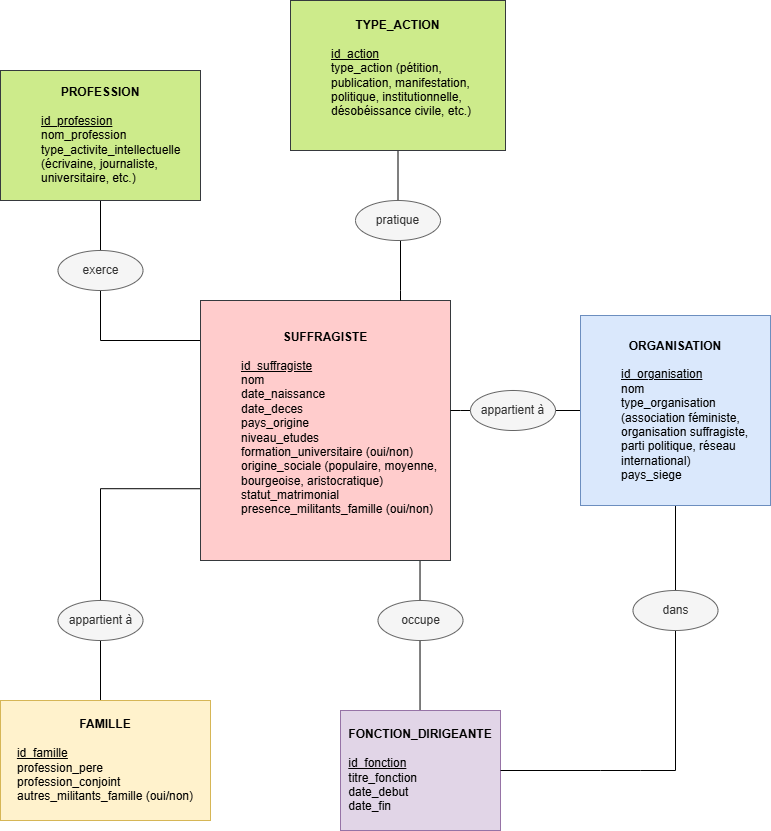
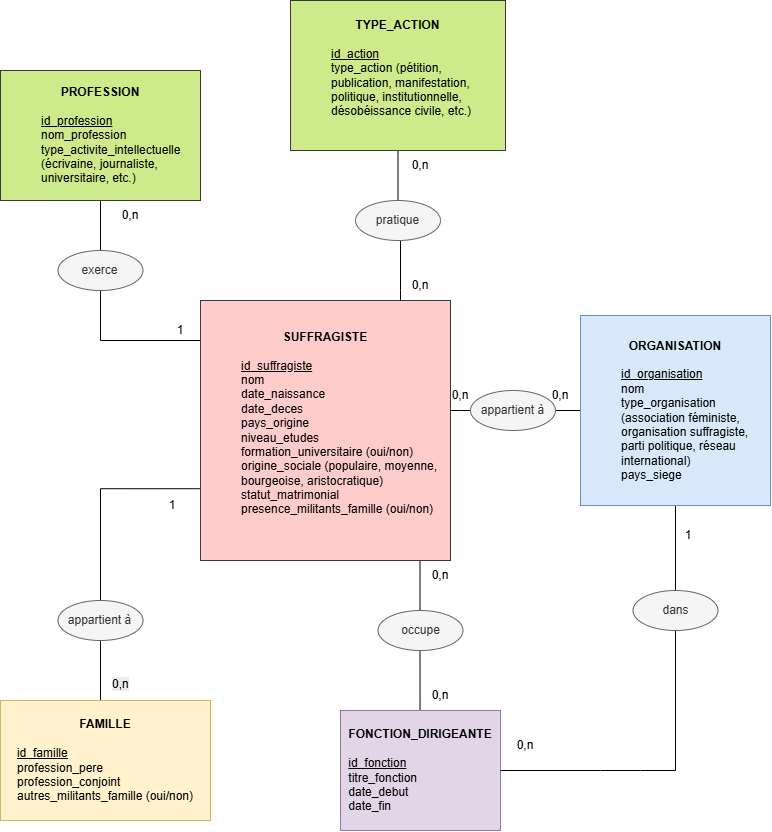
Modifications modèle conceptuel et commentaires du modèle

diff --git a/documentation/Modele_concep_commentaire.md b/documentation/Modele_concep_commentaire.md
@@ -176,6 +176,18 @@ Elle contribue à l'étude des déterminants sociaux de l'engagement militant.
 
 ---
 
+# Cardinalités
+permettent d'indiquer combien d'occurrences d'une entité peuvent être liées à une autre.
+
+écrites comme cela (nb minimum de liens, nb maximum de liens)
+
+(0,n) - 0 = facultatif / n = autent que nécessaire
+(1,n) - 1 = obligatoire
+(1,1)
+(0,1)
+
+Cardinalité minimale indique si une relation est obligatoire ou facultative. La cardinalité maximale indique le nombre maximal d'occurences pouvant être associées. Les cardinalités ont été définies d'après les caractéristiques du mouvement suffragiste et les informations nécessaires à la recherche.
+
 # Justification du modèle
 
 Le modèle a été volontairement simplifié afin de ne conserver que les informations directement utiles à la problématique de recherche.
